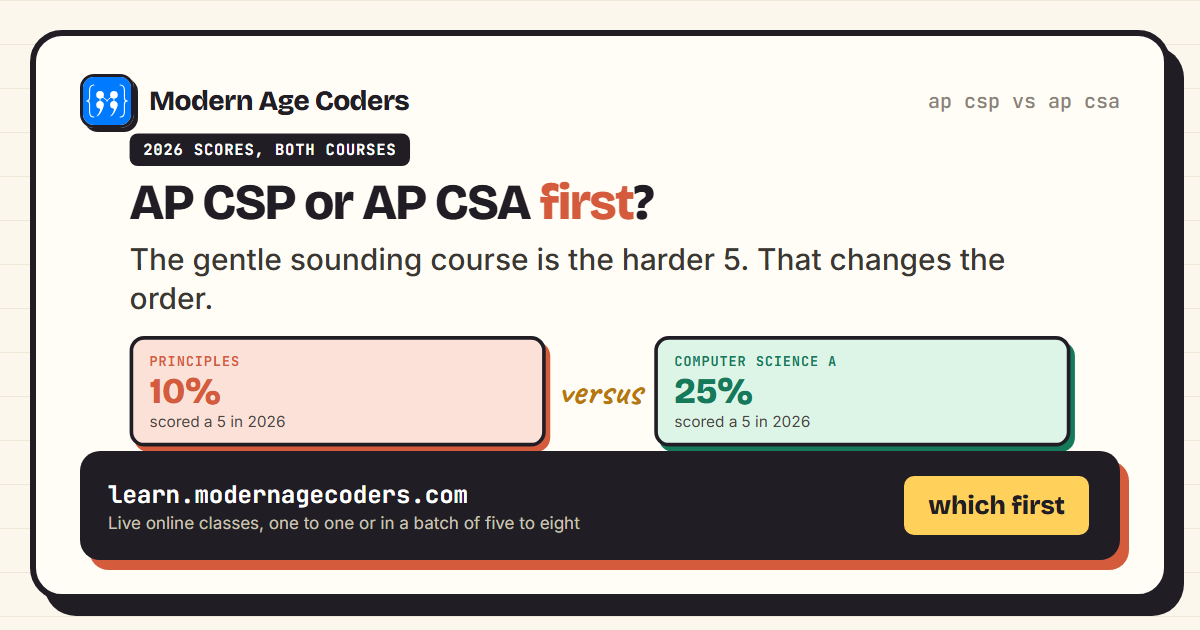
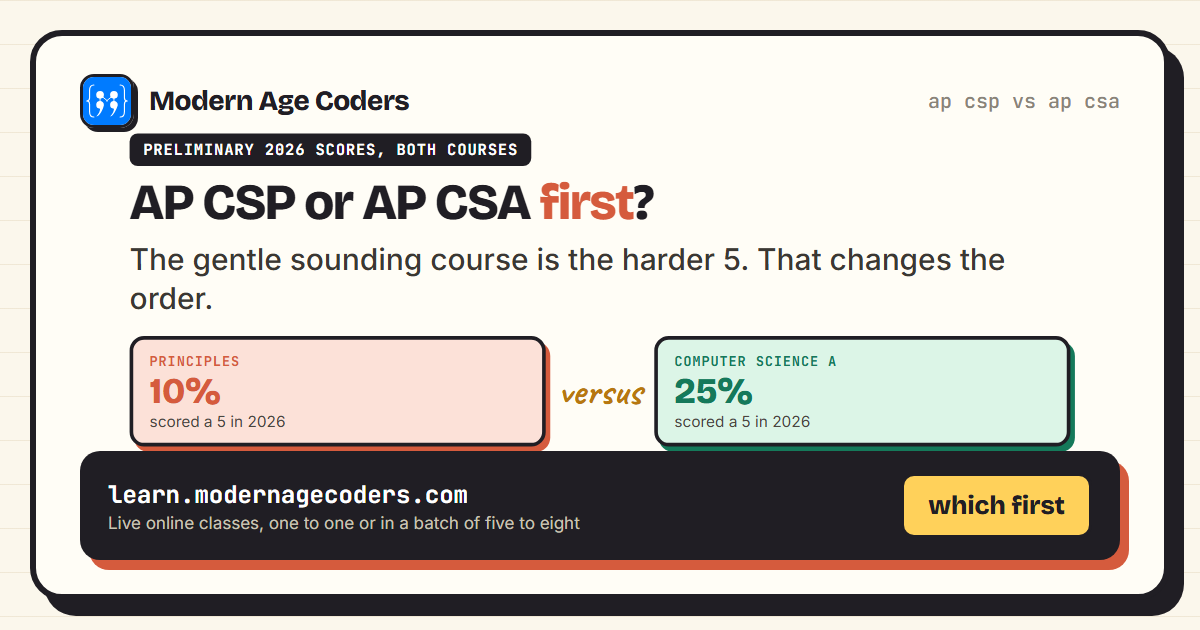
Three corrections: recursion tracing, preliminary data, attribution
All three are the same class of error. Each was true enough to pass every gate
and still not accurate, which is exactly the class of error a length check and
a pixel check cannot catch.

RECURSION. This morning's fix over-corrected. The 2025-26 redesign removed
WRITING recursive methods, not recursion. Topic 4.16 sits inside Unit 4 and
asks candidates to trace recursive calls and state what comes back. Our own
AP CSA course JSON already said this precisely, so the landing page I
corrected had simply become the odd one out in the other direction, and the
blog post stated flatly that recursion is not on the exam. Page, builder and
post now all say the same accurate thing.

PRELIMINARY DATA. College Board's 2026 distribution tables are marked
preliminary, with test taker counts and mean scores not yet published. Posts 1
and 2 carried those percentages in the hero image, the summary, the meta
description, a table and the FAQ with no qualifier anywhere. Nothing could
have flagged it: the numbers sum to 100 and reconcile against the
3-or-higher figure, so they were internally consistent and provisional at the
same time. Both posts and both heroes now say so.

ATTRIBUTION. Post 5 said the 2026 GCSE figures were on JCQ figures. They were
read off a compilation of JCQ results statistics, which is a different
sentence.

Also verified while here: the post-against-its-own-landing-page shingle
overlap, which the builder never measured because it only compared posts to
[…]

Changed region(s): [[0.1233, 0.2111, 0.4625, 0.2714]]

diff --git a/src/pages/ap-computer-science-a-online-classes.html b/src/pages/ap-computer-science-a-online-classes.html
@@ -303,7 +303,7 @@
 <div class="ag-step">
   <div class="ag-stage-n">07</div>
   <div>
-    <h3>2D arrays and working with data sets</h3>
+    <h3>2D arrays, data sets, and tracing recursion without writing it</h3>
     <p class="ag-slot-time">6 classes &middot; Unit 4</p>
     <ul><li>Row-major traversal, and the column traversal students forget</li><li>The FRQ 4 pattern, from a blank file, many times</li><li>Data sets, which the redesign moved into the required sequence</li></ul>
   </div>
@@ -385,7 +385,7 @@
     <div class="ag-table-wrap">
         <table class="ag-table">
           <thead><tr><th scope="col">Unit</th><th scope="col">What it covers</th><th scope="col">Exam weight</th><th scope="col">When we teach it</th></tr></thead>
-          <tbody><tr><td>1. Using Objects and Methods</td><td class="ag-num">Objects, methods, String, Math, parameters</td><td class="ag-num">15 to 25%</td><td class="ag-num">Term 1, weeks 1 to 6</td></tr><tr><td>2. Selection and Iteration</td><td class="ag-num">Conditionals, loops, nested loops, tracing</td><td class="ag-num">25 to 35%</td><td class="ag-num">Term 1, weeks 5 to 12</td></tr><tr><td>3. Class Creation</td><td class="ag-num">Writing a class from a specification: constructors, instance variables, accessors</td><td class="ag-num">10 to 18%</td><td class="ag-num">Term 2, weeks 1 to 7</td></tr><tr><td>4. Data Collections</td><td class="ag-num">Arrays, ArrayList, 2D arrays, traversal and standard algorithms</td><td class="ag-num">30 to 40%</td><td class="ag-num">Started term 1, finished term 2</td></tr></tbody>
+          <tbody><tr><td>1. Using Objects and Methods</td><td class="ag-num">Objects, methods, String, Math, parameters</td><td class="ag-num">15 to 25%</td><td class="ag-num">Term 1, weeks 1 to 6</td></tr><tr><td>2. Selection and Iteration</td><td class="ag-num">Conditionals, loops, nested loops, tracing</td><td class="ag-num">25 to 35%</td><td class="ag-num">Term 1, weeks 5 to 12</td></tr><tr><td>3. Class Creation</td><td class="ag-num">Writing a class from a specification: constructors, instance variables, accessors</td><td class="ag-num">10 to 18%</td><td class="ag-num">Term 2, weeks 1 to 7</td></tr><tr><td>4. Data Collections</td><td class="ag-num">Arrays, ArrayList, 2D arrays, traversal, and tracing recursive calls</td><td class="ag-num">30 to 40%</td><td class="ag-num">Started term 1, finished term 2</td></tr></tbody>
         </table>
       </div>
 
@@ -446,7 +446,7 @@
         </li>
         <li class="ag-step" data-step="4">
           <h4>Weeks 13 to 26, running alongside: collections in depth</h4>
-          <p>Unit 4, and it never stops. Arrays, ArrayList, two-dimensional traversal, and the standard algorithms over them. Every worked example from week 13 onwards uses a collection rather than a single variable, so the heaviest-weighted material is the most rehearsed.</p>
+          <p>Unit 4, and it never stops. Arrays, ArrayList, two-dimensional traversal, the standard algorithms over them, and tracing recursive calls. Every worked example from week 13 onwards uses a collection rather than a single variable, so the heaviest-weighted material is the most rehearsed.</p>
         </li>
         <li class="ag-step" data-step="5">
           <h4>Weeks 27 to 32: full papers, marked to the published rubric</h4>

diff --git a/content/blog/image-src/ap-csp-vs-ap-csa-which-to-take-first/01-both-distributions.html b/content/blog/image-src/ap-csp-vs-ap-csa-which-to-take-first/01-both-distributions.html
@@ -14,7 +14,7 @@
 <body><div class="frame">
   <div class="brand-row"><span class="logo"><svg viewBox="0 0 512 512" xmlns="http://www.w3.org/2000/svg"><rect width="512" height="512" fill="#007bff"/><g fill="none" stroke="#fff" stroke-linecap="round" stroke-linejoin="round"><path d="M116 85 C 75 85, 70 120, 70 145 V 225 C 70 250, 50 256, 40 256 C 50 256, 70 262, 70 287 V 367 C 70 392, 75 427, 116 427" stroke-width="12"/><path d="M396 85 C 437 85, 442 120, 442 145 V 225 C 442 250, 462 256, 472 256 C 462 256, 442 262, 442 287 V 367 C 442 392, 437 427, 396 427" stroke-width="12"/><line x1="182" y1="190" x2="182" y2="300" stroke-width="10"/><line x1="330" y1="190" x2="330" y2="300" stroke-width="10"/><line x1="182" y1="190" x2="262" y2="256" stroke-width="10"/><line x1="330" y1="190" x2="250" y2="256" stroke-width="10"/></g><g fill="#fff"><circle cx="182" cy="190" r="41"/><circle cx="330" cy="190" r="41"/><path d="M182 256 A 41 41 0 1 0 182 338 C 182 338 182 380 148 412 L 140 420 C 160 420 200 390 223 300 A 41 41 0 0 0 182 256 Z"/><path d="M330 256 A 41 41 0 1 0 330 338 C 330 338 330 380 296 412 L 288 420 C 308 420 340 390 371 300 A 41 41 0 0 0 330 256 Z"/></g></svg></span><span class="brand-name">Modern Age Coders</span><span class="handle">college board data</span></div>
   <div class="main"><div class="fit">
-    <div class="cap">May 2026, the same five grades, two very different shapes</div>
+    <div class="cap">May 2026 so far, the same five grades, two very different shapes</div>
     <div class="key"><span><i style="background:#FCE1D8"></i>Principles</span><span><i style="background:#DCF5E7"></i>Computer Science A</span></div>
     <div class="chart">
       <div class="grp"><div class="pair2"><div class="bar" style="height:33%;background:#FCE1D8">10%</div><div class="bar" style="height:83%;background:#DCF5E7">25%</div></div><div class="lbl">5</div></div>
@@ -25,5 +25,5 @@
     </div>
     <div class="note">Principles bunches in the middle. Computer Science A splits to the ends. Same students, same schools, different kind of test.</div>
   </div></div>
-  <div class="foot"><div class="fl"><span class="site">learn.modernagecoders.com</span><span class="tiny">Source: College Board 2026 AP score distributions</span></div><span class="pill">same year</span></div>
+  <div class="foot"><div class="fl"><span class="site">learn.modernagecoders.com</span><span class="tiny">Source: College Board 2026 AP score distributions, still marked preliminary</span></div><span class="pill">same year</span></div>
 </div></body></html>

diff --git a/content/blog/image-src/how-to-get-a-5-in-ap-computer-science-a/01-score-distribution.html b/content/blog/image-src/how-to-get-a-5-in-ap-computer-science-a/01-score-distribution.html
@@ -12,7 +12,7 @@
 <body><div class="frame">
   <div class="brand-row"><span class="logo"><svg viewBox="0 0 512 512" xmlns="http://www.w3.org/2000/svg"><rect width="512" height="512" fill="#007bff"/><g fill="none" stroke="#fff" stroke-linecap="round" stroke-linejoin="round"><path d="M116 85 C 75 85, 70 120, 70 145 V 225 C 70 250, 50 256, 40 256 C 50 256, 70 262, 70 287 V 367 C 70 392, 75 427, 116 427" stroke-width="12"/><path d="M396 85 C 437 85, 442 120, 442 145 V 225 C 442 250, 462 256, 472 256 C 462 256, 442 262, 442 287 V 367 C 442 392, 437 427, 396 427" stroke-width="12"/><line x1="182" y1="190" x2="182" y2="300" stroke-width="10"/><line x1="330" y1="190" x2="330" y2="300" stroke-width="10"/><line x1="182" y1="190" x2="262" y2="256" stroke-width="10"/><line x1="330" y1="190" x2="250" y2="256" stroke-width="10"/></g><g fill="#fff"><circle cx="182" cy="190" r="41"/><circle cx="330" cy="190" r="41"/><path d="M182 256 A 41 41 0 1 0 182 338 C 182 338 182 380 148 412 L 140 420 C 160 420 200 390 223 300 A 41 41 0 0 0 182 256 Z"/><path d="M330 256 A 41 41 0 1 0 330 338 C 330 338 330 380 296 412 L 288 420 C 308 420 340 390 371 300 A 41 41 0 0 0 330 256 Z"/></g></svg></span><span class="brand-name">Modern Age Coders</span><span class="handle">college board data</span></div>
   <div class="main"><div class="fit">
-    <div class="cap">AP Computer Science A, May 2026 scores</div>
+    <div class="cap">AP Computer Science A, May 2026 scores so far</div>
     <div class="chart">
       <div class="col"><div class="bar" style="height:100%;background:#DCF5E7;box-shadow:5px 6px 0 var(--pine)"><span class="pine">25%</span></div><div class="lbl">5</div></div>
       <div class="col"><div class="bar" style="height:104%;background:#DCF5E7;box-shadow:5px 6px 0 var(--pine)"><span class="pine">26%</span></div><div class="lbl">4</div></div>
@@ -22,5 +22,5 @@
     </div>
     <div class="note">Two peaks, not one hump. Very few candidates land in the middle, which is what a skills exam looks like when a skill is either present or absent.</div>
   </div></div>
-  <div class="foot"><div class="fl"><span class="site">learn.modernagecoders.com</span><span class="tiny">Source: College Board 2026 AP score distributions</span></div><span class="pill">bimodal</span></div>
+  <div class="foot"><div class="fl"><span class="site">learn.modernagecoders.com</span><span class="tiny">Source: College Board 2026 AP score distributions, still marked preliminary</span></div><span class="pill">bimodal</span></div>
 </div></body></html>

diff --git a/content/blog/image-src/how-to-get-a-5-in-ap-computer-science-a/00-hero.html b/content/blog/image-src/how-to-get-a-5-in-ap-computer-science-a/00-hero.html
@@ -14,7 +14,7 @@ h1{font-size:58px}
 <body><div class="frame">
   <div class="brand-row"><span class="logo"><svg viewBox="0 0 512 512" xmlns="http://www.w3.org/2000/svg"><rect width="512" height="512" fill="#007bff"/><g fill="none" stroke="#fff" stroke-linecap="round" stroke-linejoin="round"><path d="M116 85 C 75 85, 70 120, 70 145 V 225 C 70 250, 50 256, 40 256 C 50 256, 70 262, 70 287 V 367 C 70 392, 75 427, 116 427" stroke-width="12"/><path d="M396 85 C 437 85, 442 120, 442 145 V 225 C 442 250, 462 256, 472 256 C 462 256, 442 262, 442 287 V 367 C 442 392, 437 427, 396 427" stroke-width="12"/><line x1="182" y1="190" x2="182" y2="300" stroke-width="10"/><line x1="330" y1="190" x2="330" y2="300" stroke-width="10"/><line x1="182" y1="190" x2="262" y2="256" stroke-width="10"/><line x1="330" y1="190" x2="250" y2="256" stroke-width="10"/></g><g fill="#fff"><circle cx="182" cy="190" r="41"/><circle cx="330" cy="190" r="41"/><path d="M182 256 A 41 41 0 1 0 182 338 C 182 338 182 380 148 412 L 140 420 C 160 420 200 390 223 300 A 41 41 0 0 0 182 256 Z"/><path d="M330 256 A 41 41 0 1 0 330 338 C 330 338 330 380 296 412 L 288 420 C 308 420 340 390 371 300 A 41 41 0 0 0 330 256 Z"/></g></svg></span><span class="brand-name">Modern Age Coders</span><span class="handle">ap csa, 2026</span></div>
   <div class="main"><div class="fit">
-    <span class="tag">MAY 2026 RESULTS, FIRST YEAR OF THE NEW COURSE</span>
+    <span class="tag">PRELIMINARY MAY 2026 RESULTS, FIRST YEAR OF THE NEW COURSE</span>
     <div><h1>How to get a <span class="coral">5</span> in AP Computer Science A</h1></div>
     <div class="sub">A quarter of candidates got one. Almost a quarter got a 1. The gap is not talent.</div>
     <div class="stats">

diff --git a/content/blog/image-src/ap-csp-vs-ap-csa-which-to-take-first/00-hero.html b/content/blog/image-src/ap-csp-vs-ap-csa-which-to-take-first/00-hero.html
@@ -15,7 +15,7 @@ h1{font-size:56px}
 <body><div class="frame">
   <div class="brand-row"><span class="logo"><svg viewBox="0 0 512 512" xmlns="http://www.w3.org/2000/svg"><rect width="512" height="512" fill="#007bff"/><g fill="none" stroke="#fff" stroke-linecap="round" stroke-linejoin="round"><path d="M116 85 C 75 85, 70 120, 70 145 V 225 C 70 250, 50 256, 40 256 C 50 256, 70 262, 70 287 V 367 C 70 392, 75 427, 116 427" stroke-width="12"/><path d="M396 85 C 437 85, 442 120, 442 145 V 225 C 442 250, 462 256, 472 256 C 462 256, 442 262, 442 287 V 367 C 442 392, 437 427, 396 427" stroke-width="12"/><line x1="182" y1="190" x2="182" y2="300" stroke-width="10"/><line x1="330" y1="190" x2="330" y2="300" stroke-width="10"/><line x1="182" y1="190" x2="262" y2="256" stroke-width="10"/><line x1="330" y1="190" x2="250" y2="256" stroke-width="10"/></g><g fill="#fff"><circle cx="182" cy="190" r="41"/><circle cx="330" cy="190" r="41"/><path d="M182 256 A 41 41 0 1 0 182 338 C 182 338 182 380 148 412 L 140 420 C 160 420 200 390 223 300 A 41 41 0 0 0 182 256 Z"/><path d="M330 256 A 41 41 0 1 0 330 338 C 330 338 330 380 296 412 L 288 420 C 308 420 340 390 371 300 A 41 41 0 0 0 330 256 Z"/></g></svg></span><span class="brand-name">Modern Age Coders</span><span class="handle">ap csp vs ap csa</span></div>
   <div class="main"><div class="fit">
-    <span class="tag">2026 SCORES, BOTH COURSES</span>
+    <span class="tag">PRELIMINARY 2026 SCORES, BOTH COURSES</span>
     <div><h1>AP CSP or AP CSA <span class="coral">first</span>?</h1></div>
     <div class="sub">The gentle sounding course is the harder 5. That changes the order.</div>
     <div class="vs">

diff --git a/src/pages/ap-computer-science-a-online-classes.md b/src/pages/ap-computer-science-a-online-classes.md
@@ -105,7 +105,7 @@ Mapped to the four College Board units. Module numbering follows our teaching or
 
 07
 
-### 2D arrays and working with data sets
+### 2D arrays, data sets, and tracing recursion without writing it
 
 6 classes · Unit 4
 
@@ -160,7 +160,7 @@ Both tables below come from College Board's own published course and exam materi
 | 1. Using Objects and Methods | Objects, methods, String, Math, parameters | 15 to 25% | Term 1, weeks 1 to 6 |
 | 2. Selection and Iteration | Conditionals, loops, nested loops, tracing | 25 to 35% | Term 1, weeks 5 to 12 |
 | 3. Class Creation | Writing a class from a specification: constructors, instance variables, accessors | 10 to 18% | Term 2, weeks 1 to 7 |
-| 4. Data Collections | Arrays, ArrayList, 2D arrays, traversal and standard algorithms | 30 to 40% | Started term 1, finished term 2 |
+| 4. Data Collections | Arrays, ArrayList, 2D arrays, traversal, and tracing recursive calls | 30 to 40% | Started term 1, finished term 2 |
 
 Two things follow from the second table that are worth saying plainly. Selection and Iteration plus Data Collections account for somewhere between fifty-five and seventy-five per cent of the multiple choice between them, which means loops over collections are the centre of gravity of the whole qualification. And Class Creation, at ten to eighteen per cent, is the smallest unit by weight despite being the part most students find conceptually hardest, so it deserves careful teaching and not a disproportionate share of the year.
 
@@ -211,7 +211,7 @@ Two live classes a week, one to one or in a batch of five to eight, with past-pa
   Unit 3. Every exercise is given as a specification with fixed signatures, which is how the free-response section presents it, so that following a specification is normal rather than a constraint discovered in the exam hall.
 4. #### Weeks 13 to 26, running alongside: collections in depth
 
-  Unit 4, and it never stops. Arrays, ArrayList, two-dimensional traversal, and the standard algorithms over them. Every worked example from week 13 onwards uses a collection rather than a single variable, so the heaviest-weighted material is the most rehearsed.
+  Unit 4, and it never stops. Arrays, ArrayList, two-dimensional traversal, the standard algorithms over them, and tracing recursive calls. Every worked example from week 13 onwards uses a collection rather than a single variable, so the heaviest-weighted material is the most rehearsed.
 5. #### Weeks 27 to 32: full papers, marked to the published rubric
 
   Timed sections in the real format. The teacher marks to the rubric rather than to intent, which is uncomfortable the first two times and is the fastest route to understanding how points are actually awarded.
